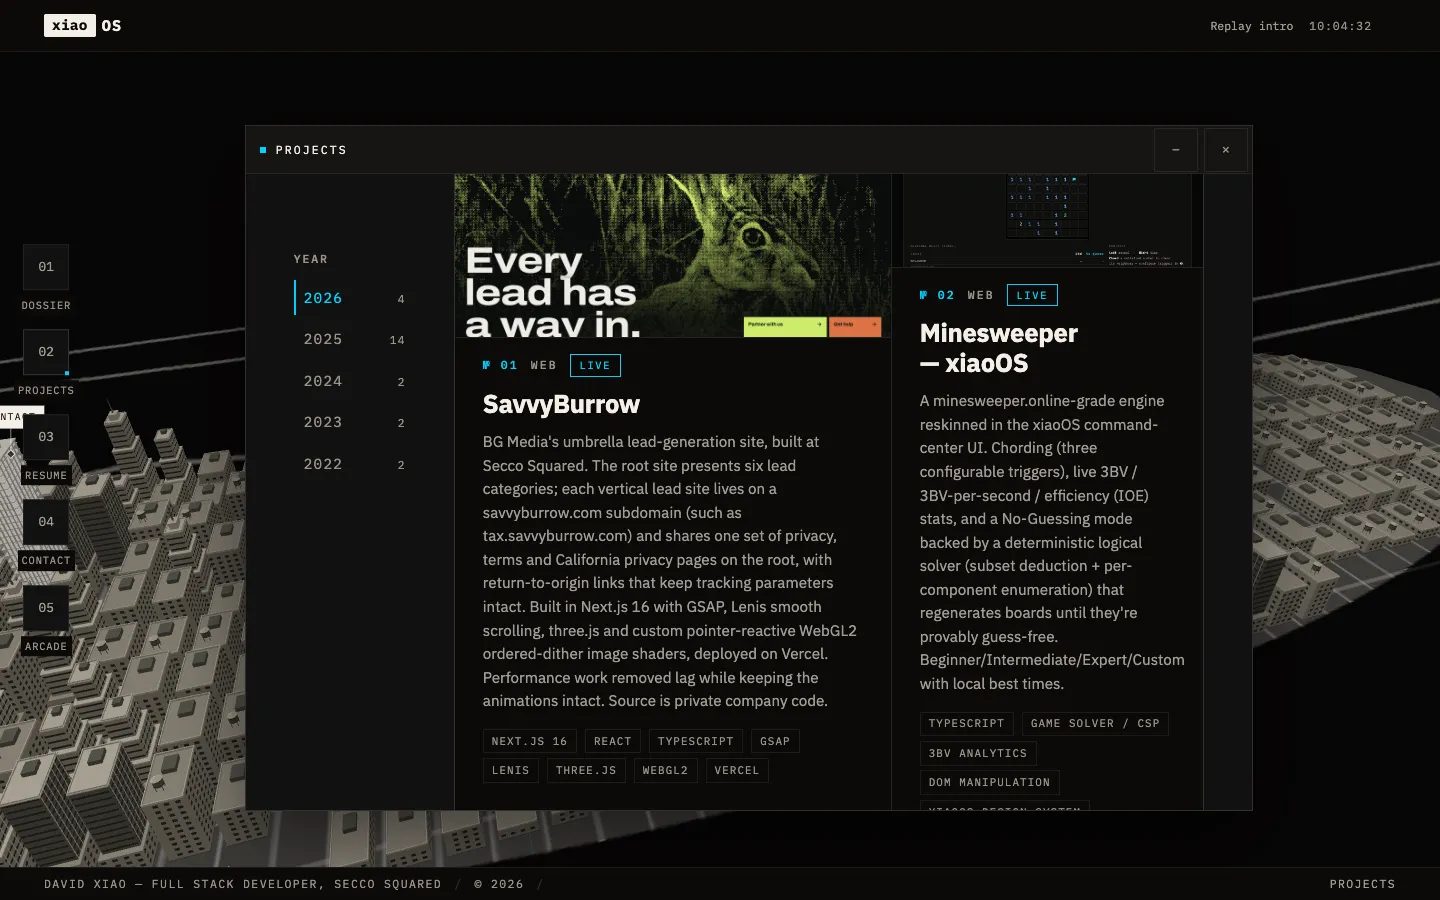
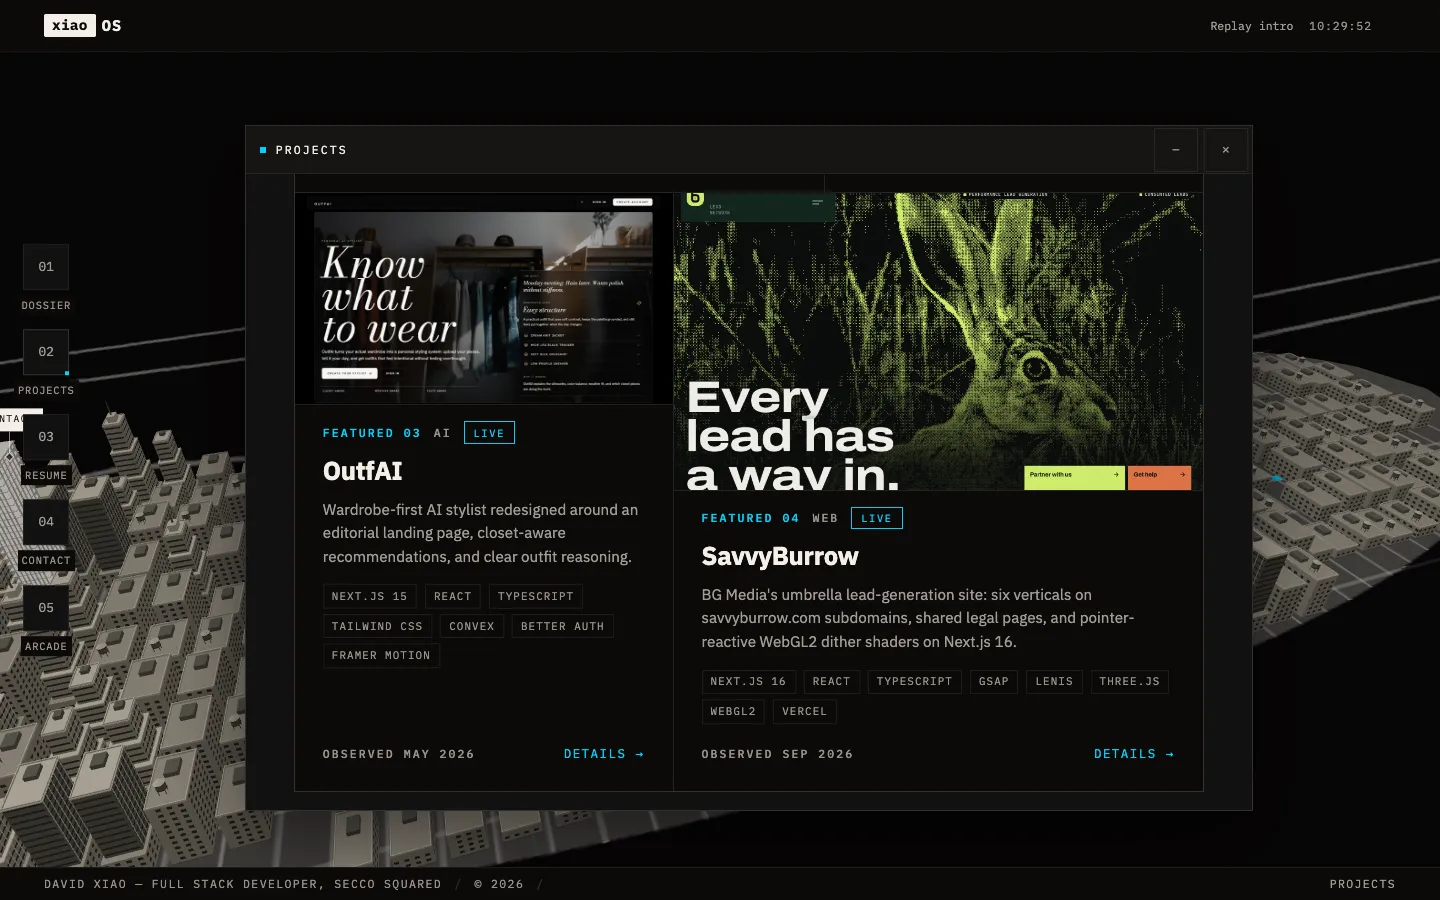
feat(projects): feature SavvyBurrow on home in place of ForgeArena
Captain decision: SavvyBurrow takes ForgeArena's slot in the fixed
four-card featured grid; ForgeArena stays in the /projects archive.
Adds a ShortDescription like the other featured entries and refreshes
the card evidence screenshots.

diff --git a/projects.go b/projects.go
@@ -78,6 +78,22 @@ func LoadProjects() []Project {
 			Date:             time.Date(2026, 5, 4, 0, 0, 0, 0, time.UTC),
 		},
 		{
+			ID:               "savvyburrow",
+			Title:            "SavvyBurrow",
+			ShortDescription: "BG Media's umbrella lead-generation site: six verticals on savvyburrow.com subdomains, shared legal pages, and pointer-reactive WebGL2 dither shaders on Next.js 16.",
+			Description:      "BG Media's umbrella lead-generation site, built at Secco Squared. The root site presents six lead categories; each vertical lead site lives on a savvyburrow.com subdomain (such as tax.savvyburrow.com) and shares one set of privacy, terms and California privacy pages on the root, with return-to-origin links that keep tracking parameters intact. Built in Next.js 16 with GSAP, Lenis smooth scrolling, three.js and custom pointer-reactive WebGL2 ordered-dither image shaders, deployed on Vercel. Performance work removed lag while keeping the animations intact. Source is private company code.",
+			Image:            "/static/images/savvyburrow-preview.webp",
+			Technologies:     []string{"Next.js 16", "React", "TypeScript", "GSAP", "Lenis", "three.js", "WebGL2", "Vercel"},
+			Type:             "web",
+			GitHubURL:        "",
+			LiveURL:          "https://www.savvyburrow.com",
+			DemoType:         "live",
+			DemoURL:          "https://www.savvyburrow.com",
+			Status:           "active",
+			Featured:         true,
+			Date:             time.Date(2026, 9, 1, 0, 0, 0, 0, time.UTC),
+		},
+		{
 			ID:               "forgearena",
 			Title:            "ForgeArena",
 			ShortDescription: "Gamified fitness platform — RPG-style avatar progression and social gym competition, built as a multi-semester TypeScript + Go team project.",
@@ -90,22 +106,7 @@ func LoadProjects() []Project {
 			DemoType:         "live",
 			DemoURL:          "https://forgearena.vercel.app/",
 			Status:           "in-development",
-			Featured:         true,
 			Date:             time.Date(2025, 8, 26, 0, 0, 0, 0, time.UTC),
-		},
-		{
-			ID:           "savvyburrow",
-			Title:        "SavvyBurrow",
-			Description:  "BG Media's umbrella lead-generation site, built at Secco Squared. The root site presents six lead categories; each vertical lead site lives on a savvyburrow.com subdomain (such as tax.savvyburrow.com) and shares one set of privacy, terms and California privacy pages on the root, with return-to-origin links that keep tracking parameters intact. Built in Next.js 16 with GSAP, Lenis smooth scrolling, three.js and custom pointer-reactive WebGL2 ordered-dither image shaders, deployed on Vercel. Performance work removed lag while keeping the animations intact. Source is private company code.",
-			Image:        "/static/images/savvyburrow-preview.webp",
-			Technologies: []string{"Next.js 16", "React", "TypeScript", "GSAP", "Lenis", "three.js", "WebGL2", "Vercel"},
-			Type:         "web",
-			GitHubURL:    "",
-			LiveURL:      "https://www.savvyburrow.com",
-			DemoType:     "live",
-			DemoURL:      "https://www.savvyburrow.com",
-			Status:       "active",
-			Date:         time.Date(2026, 9, 1, 0, 0, 0, 0, time.UTC),
 		},
 		{
 			ID:           "campus-management-system",
